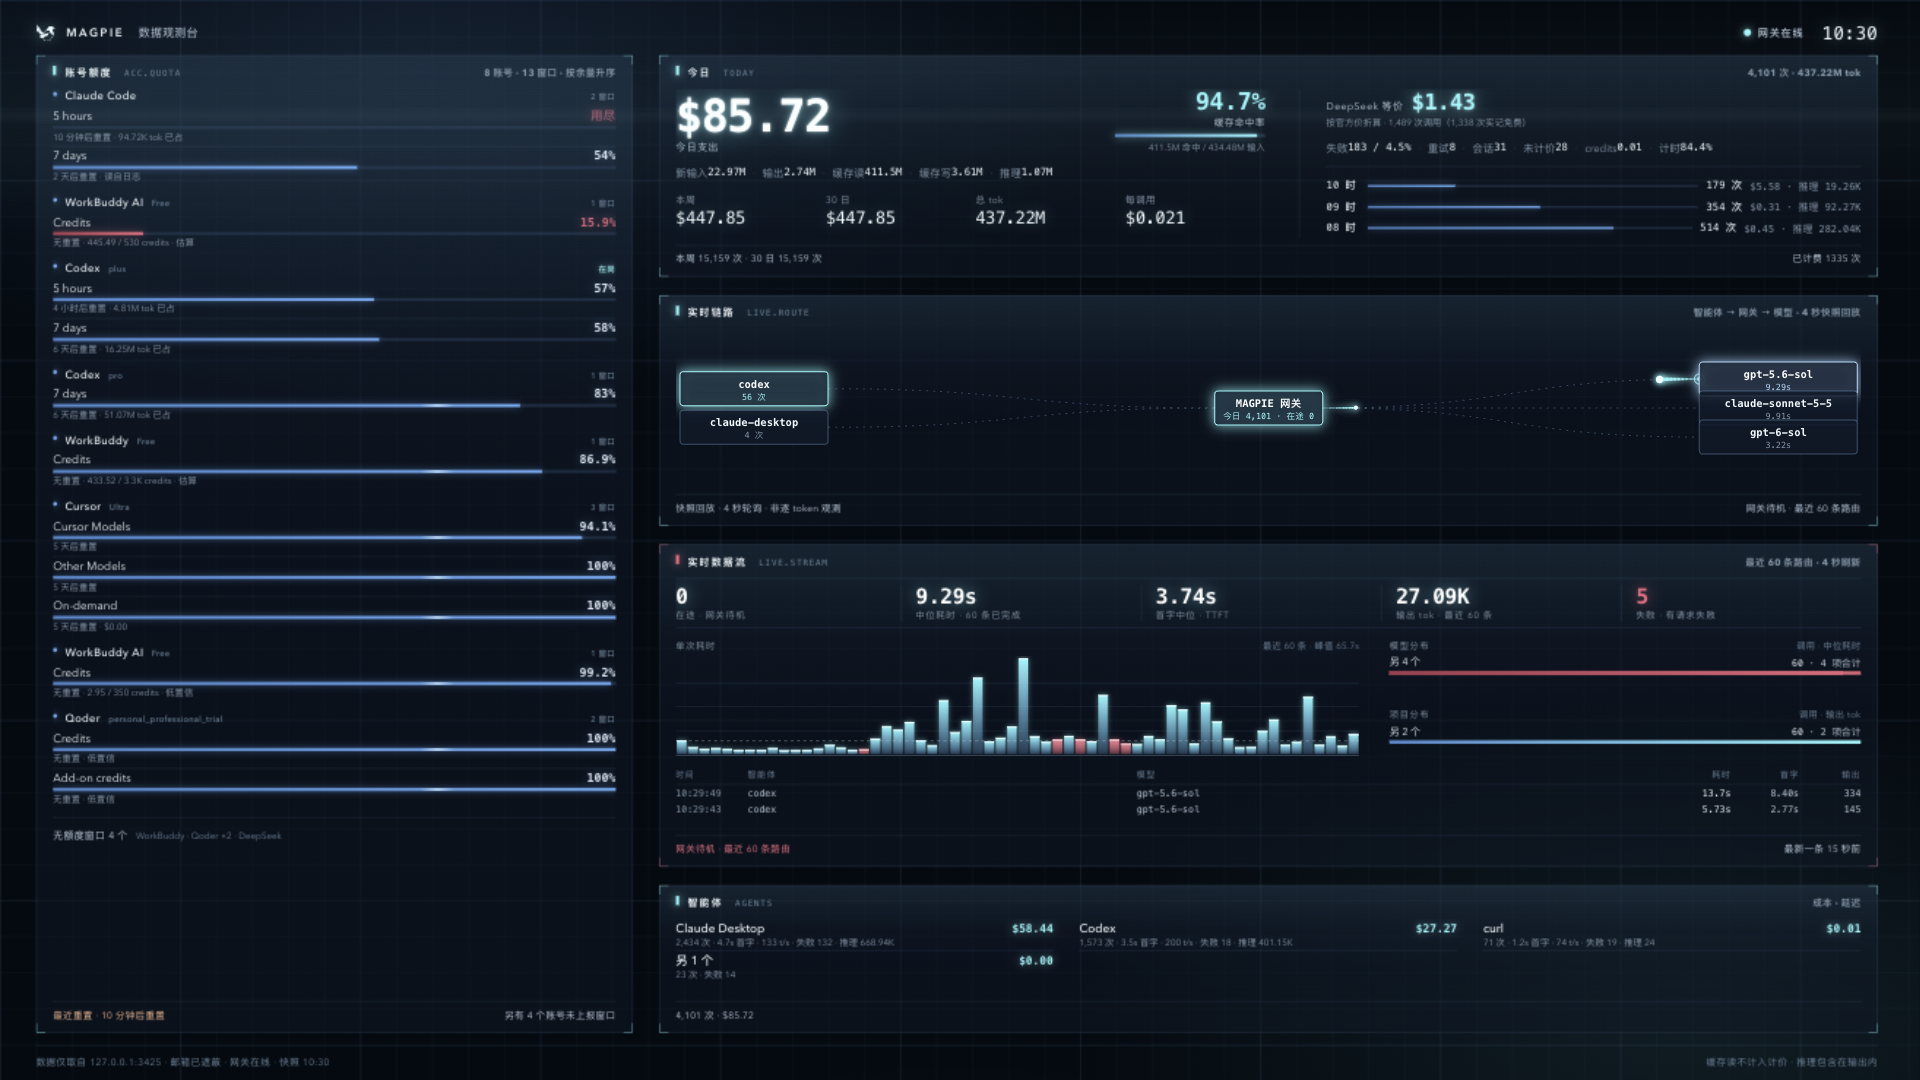
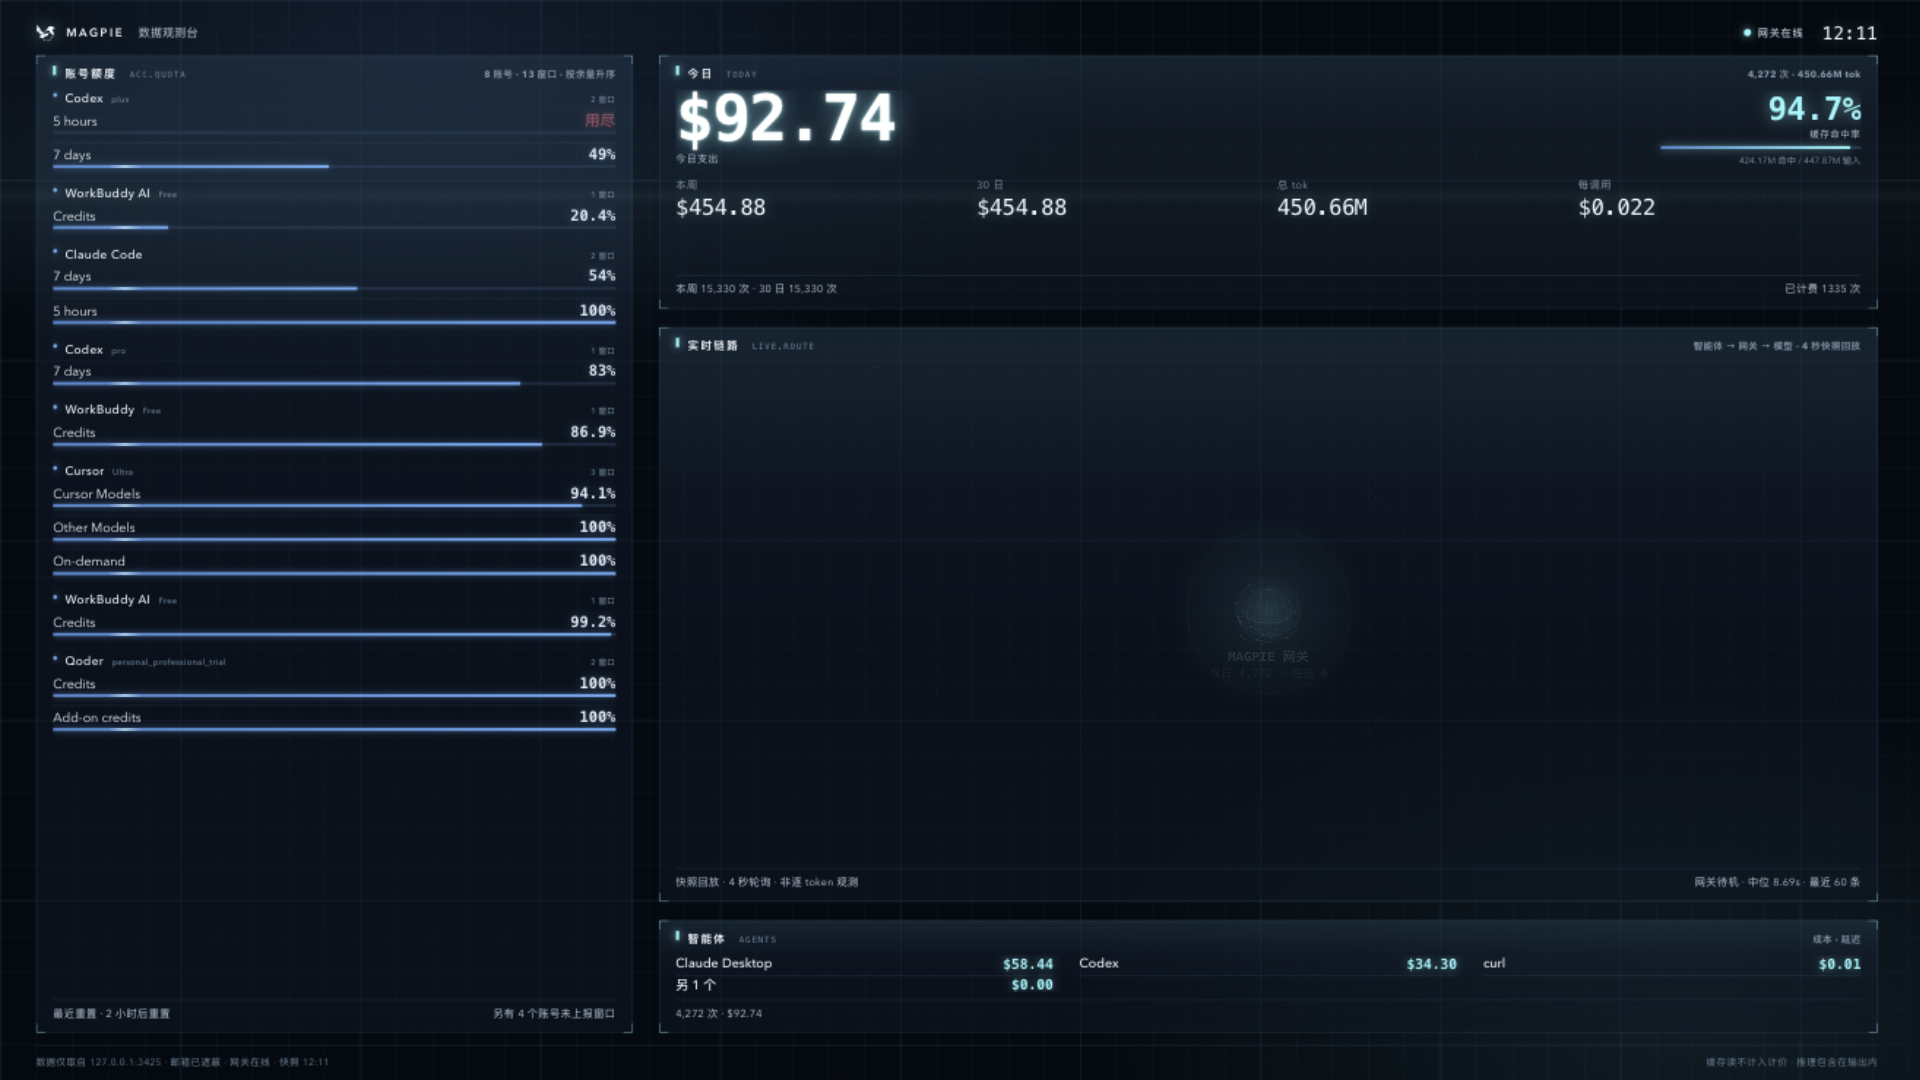
屏保概览模式：全屏时细节退场、大读数放大、星系标注跟随

diff --git a/design/dashboard.js b/design/dashboard.js
@@ -1176,6 +1176,8 @@
       }
     });
     ctx.globalCompositeOperation = 'source-over';
+    // 屏保概览：全屏时画布标注一起放大（星系是屏保的主角）。
+    const big = document.body.classList.contains('fullscreen');
     const drawPlanet = (node, accent, active, label, sub, litSign, calls, ringed) => {
       const alpha = alphaOf(node);
       if (node.px == null || alpha <= 0.02) return;
@@ -1247,12 +1249,12 @@
       ctx.textAlign = 'center';
       ctx.textBaseline = 'alphabetic';
       ctx.fillStyle = active ? '#eafcff' : '#dbe9f6';
-      ctx.font = '500 9.5px ui-monospace, "SF Mono", Menlo, monospace';
-      ctx.fillText(label, x, y + r + 14, 132);
+      ctx.font = (big ? '500 12.5px ' : '500 9.5px ') + 'ui-monospace, "SF Mono", Menlo, monospace';
+      ctx.fillText(label, x, y + r + (big ? 18 : 14), 150);
       ctx.globalAlpha = alpha * 0.75;
       ctx.fillStyle = '#7e95ad';
-      ctx.font = '400 8px ui-monospace, "SF Mono", Menlo, monospace';
-      ctx.fillText(sub, x, y + r + 24, 132);
+      ctx.font = (big ? '400 10.5px ' : '400 8px ') + 'ui-monospace, "SF Mono", Menlo, monospace';
+      ctx.fillText(sub, x, y + r + (big ? 32 : 24), 150);
       ctx.restore();
     };
     routeNodes.agents.forEach((node, name) => drawPlanet(node, ROUTE_C.request, activeAgents.has(name),
@@ -1266,11 +1268,11 @@
     ctx.globalAlpha = 0.92 * routeCoreAlpha;
     ctx.textAlign = 'center';
     ctx.fillStyle = '#f2f9ff';
-    ctx.font = '600 10.5px ui-monospace, "SF Mono", Menlo, monospace';
-    ctx.fillText('MAGPIE 网关', cx, cy + 44);
+    ctx.font = (big ? '600 13px ' : '600 10.5px ') + 'ui-monospace, "SF Mono", Menlo, monospace';
+    ctx.fillText('MAGPIE 网关', cx, cy + (big ? 50 : 44));
     ctx.fillStyle = '#7e95ad';
-    ctx.font = '400 8.5px ui-monospace, "SF Mono", Menlo, monospace';
-    ctx.fillText('今日 ' + integer(todayCalls) + ' · 在途 ' + running, cx, cy + 56);
+    ctx.font = (big ? '400 11px ' : '400 8.5px ') + 'ui-monospace, "SF Mono", Menlo, monospace';
+    ctx.fillText('今日 ' + integer(todayCalls) + ' · 在途 ' + running, cx, cy + (big ? 66 : 56));
     ctx.restore();
   }
 

diff --git a/design/dashboard.css b/design/dashboard.css
@@ -623,6 +623,30 @@ body.offline .wall { transition: opacity 0.4s ease; }
 body.offline .mod { --tick-c: rgba(255, 122, 122, 0.4); }
 body.offline::after { animation-play-state: paused; opacity: 0.4; }
 
+/* 屏保概览模式：全屏（屏保）时降噪——细节层退场，一眼读数放大，星系占更大。
+   桌面态不受影响，仍是全量数据面板。 */
+body.fullscreen .today-grid { grid-template-columns: minmax(0, 1fr); }
+body.fullscreen .today-side { display: none; }
+body.fullscreen .hero b { font-size: 64px; }
+body.fullscreen .hero-row { gap: 30px; }
+body.fullscreen .cache { flex-basis: 200px; }
+body.fullscreen .cache-top b { font-size: 32px; }
+body.fullscreen .cells { grid-template-columns: repeat(4, minmax(0, 1fr)); gap: 18px; }
+body.fullscreen .cells b { font-size: 22px; }
+body.fullscreen .cells span { font-size: 10.5px; }
+body.fullscreen .flow, body.fullscreen .rhythm { display: none; }
+body.fullscreen .q-spark, body.fullscreen .q-sub, body.fullscreen .q-idle { display: none; }
+body.fullscreen .q-top em { font-size: 15px; }
+body.fullscreen .q-top b { font-size: 13px; }
+body.fullscreen .q { padding: 4px 0 5px; }
+body.fullscreen .q-group > h3 { font-size: 12px; }
+body.fullscreen main { grid-template-rows: minmax(0, 27fr) minmax(0, 61fr) minmax(0, 12fr); }
+body.fullscreen .a span, body.fullscreen .a .share, body.fullscreen .calls { display: none; }
+body.fullscreen .a b { font-size: 13px; }
+body.fullscreen .a em { font-size: 14px; }
+body.fullscreen .mod > h2 { font-size: 11px; }
+body.fullscreen .mod-foot { font-size: 10.5px; }
+
 @media (prefers-reduced-motion: reduce) {
   *, *::before, *::after { animation: none !important; transition: none !important; }
 }

diff --git a/HANDOFF.md b/HANDOFF.md
@@ -13,7 +13,8 @@
 - **今日**：「最近三小时」三行换成 **24 小时节奏柱状图**（尾部未到的小时裁掉，当前小时青色高亮，悬停看 次数/费用，标题行注峰值）；flow2 换入根级**首字**（ttft_ms/timed）与**生成速度**（decode_out/decode_ms，t/s），去掉 credits/计时两个弱读数。
 - **智能体**：每行名下加**调用占比条**（宽度 = 调数 / 最活跃智能体）；副注追加「X 分钟前活跃」（以 trace 里该智能体最后一次触发时刻为准）。
 - **最近调用明细带**（用户确认追加）：智能体模块底部新增两行请求账本明细（`/v1/magpie/usage/requests?period=today&limit=6`，单独容错），一行 = 时间·智能体·模型·输出 tok·耗时·费用，失败行标红、未计价标「未计价」、新行青光入场；智能体名过 `mask()`。行高从 24/60/16 调到 24/57/19 给明细带腾位。点击行星弹层的方案不可行——壁纸窗口鼠标完全穿透，无法接收点击。
-- 本轮验证：真实数据截图核对（燃尽曲线下降形态、估算 3.7 小时、节奏图峰值 158 次 @13 时、占比条与活跃标注）；`impeccable detect` 无 error；`swift build` / `swift test` / `./build-app.sh` 通过。
+- **屏保概览模式**（用户反馈「数据太混乱，屏保上一眼看到」）：`body.fullscreen`（屏保/全屏）时自动降噪——今日模块隐藏右栏（等价/流程/节奏图），只留大号今日支出（45→64px）、缓存率（24→32px）与四格（17→22px）；额度列隐藏燃尽曲线/副注/无窗口行，只留账号名 + 大号百分比（12→15px）+ 余量条；智能体只留名字 + 成本，隐藏副注/占比条/调用明细；星系段 57→61fr 且画布标注（行星标签 9.5→12.5px、恒星铭牌 10.5→13px）跟随放大。桌面态（非全屏）不受影响，仍是全量面板。
+- 本轮验证：真实数据截图核对（燃尽曲线下降形态、估算 3.7 小时、节奏图峰值 158 次 @13 时、占比条与活跃标注）；全屏概览与桌面全量两态截图确认；`impeccable detect` 无 error；`swift build` / `swift test` / `./build-app.sh` 通过。
 
 ## 2026-10-24：链路舞台按触发出场 + 常驻 3D 网关核心
 
